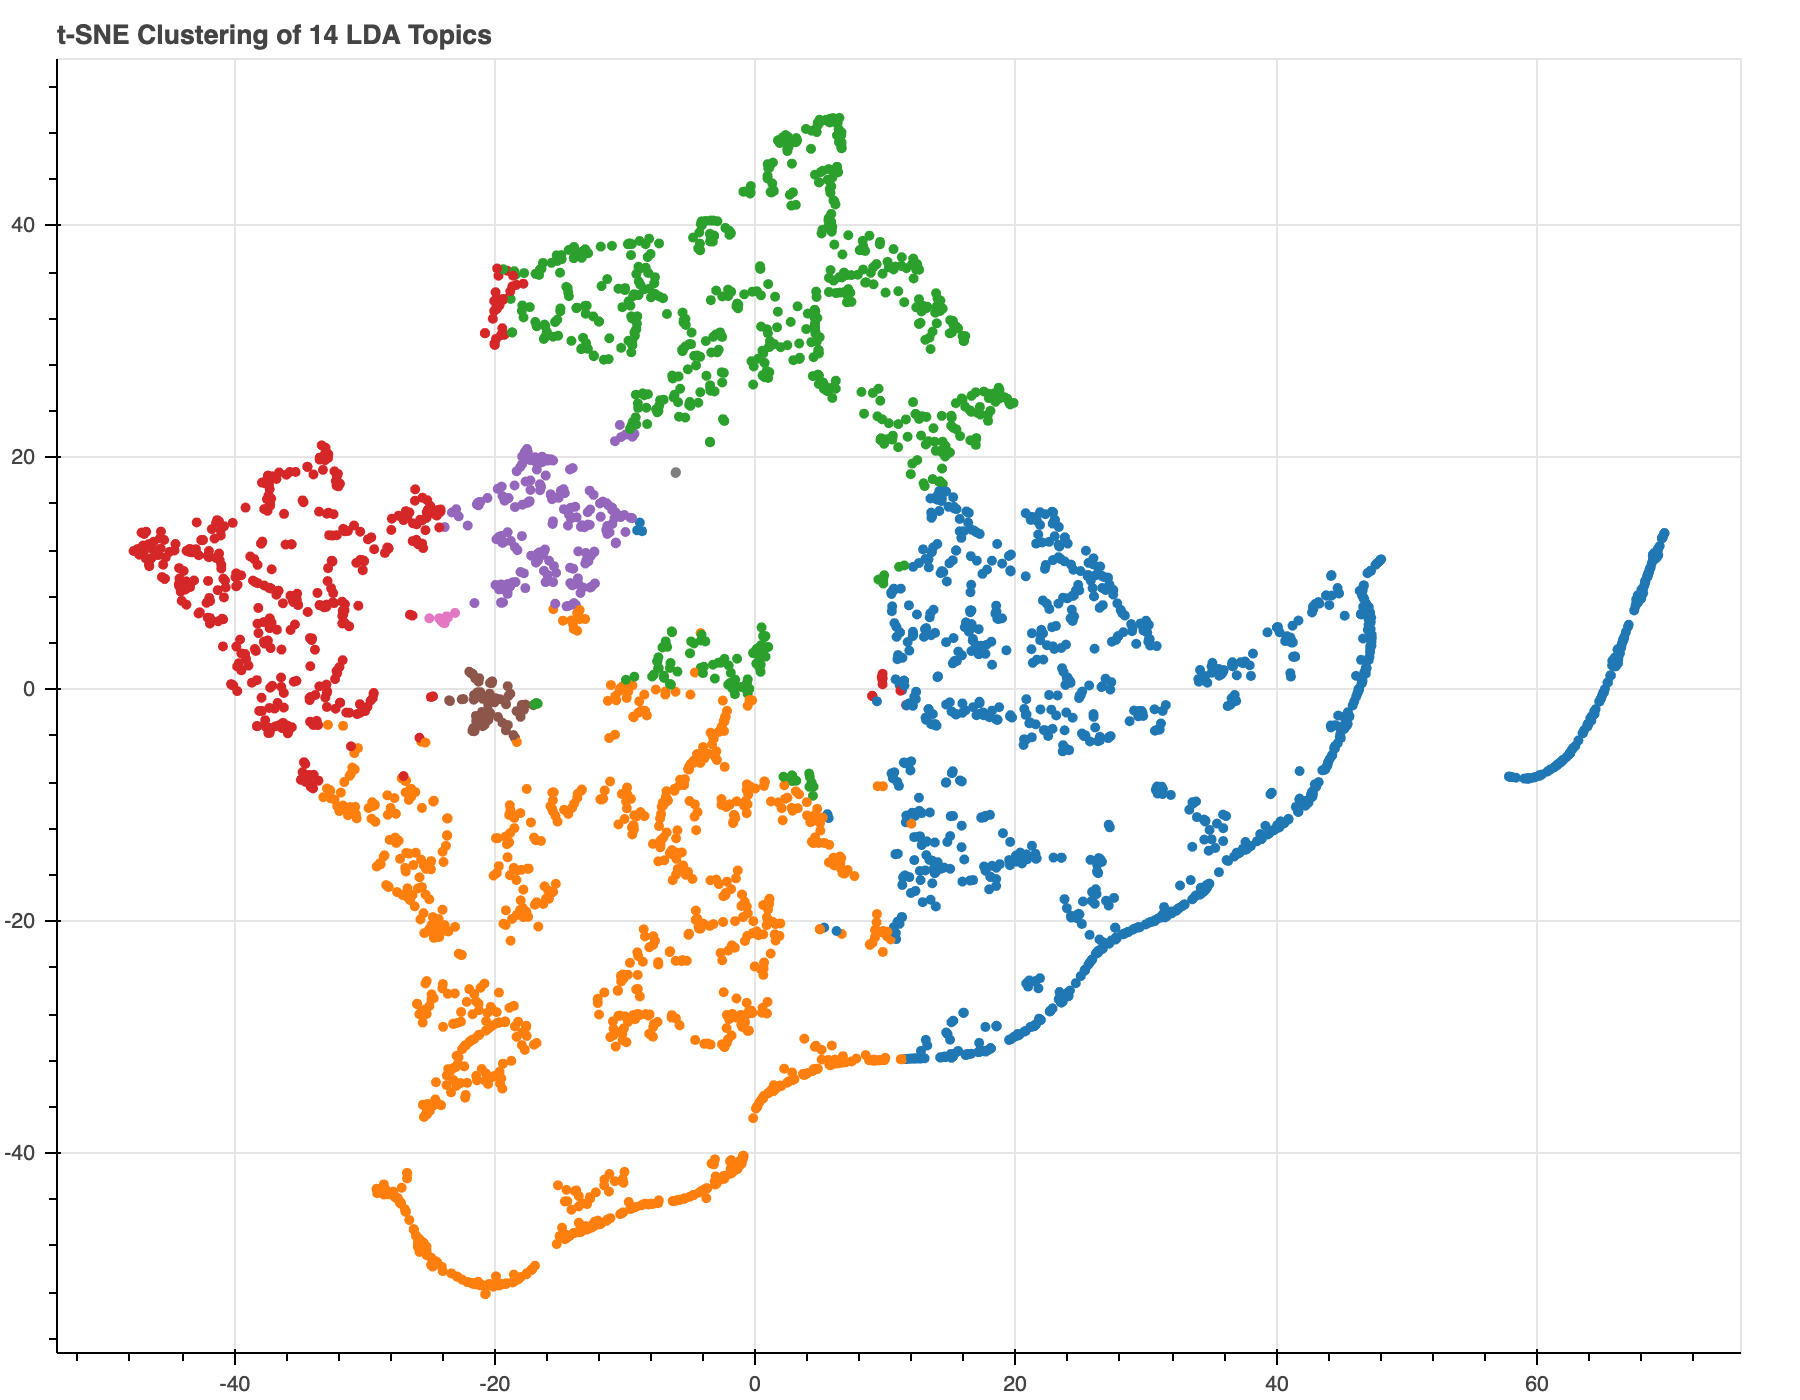
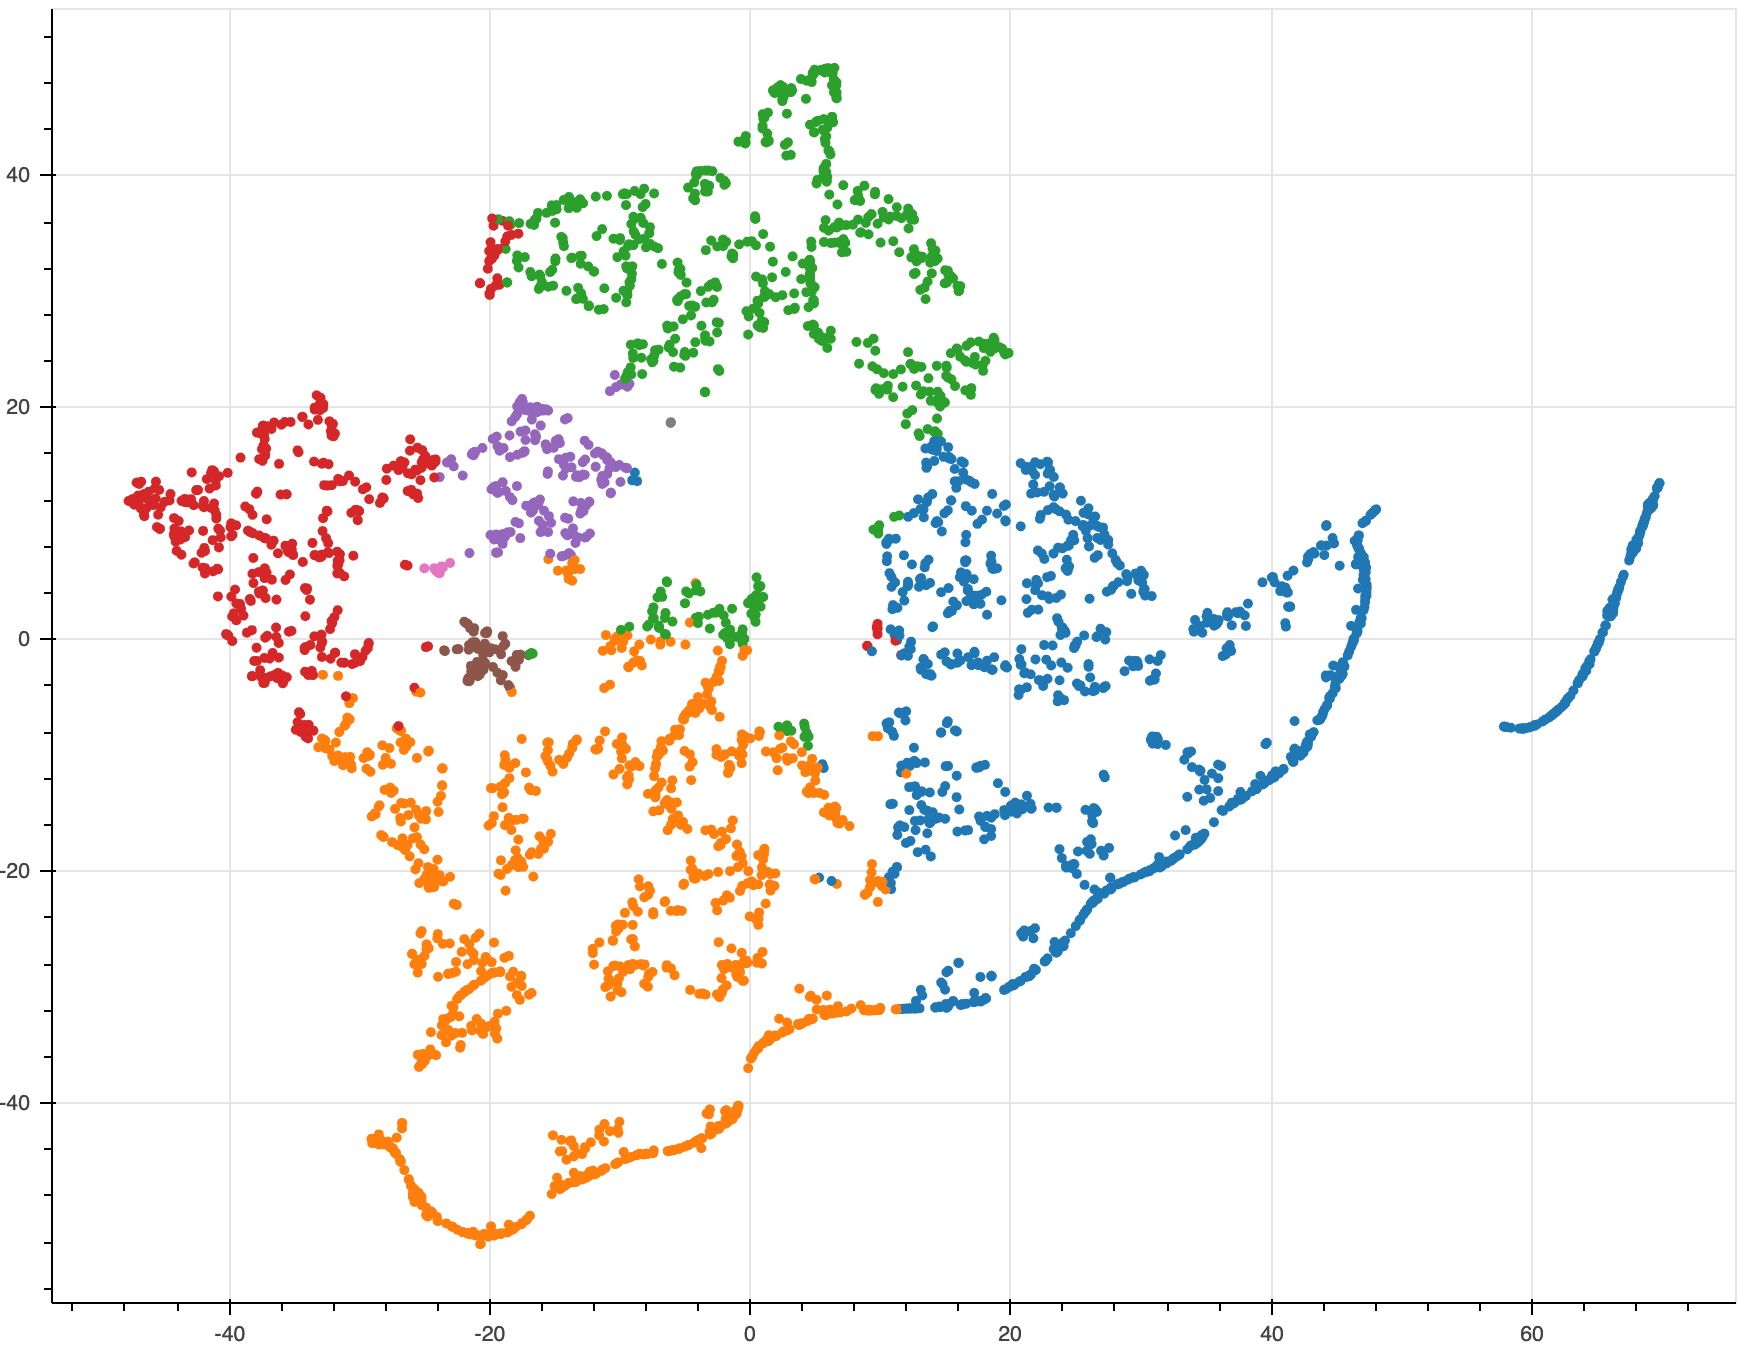
Updated hLDA, visualizations
figure and hierarchical network prototype; descriptions of planned work

diff --git a/README.md b/README.md
@@ -75,7 +75,11 @@ The LDA algorithm (Blei et al., 2003) is a generative probabilistic model. In ea
 
 **LDA Coherence:**
 
+The shape of the curve below suggests a relative maximum coherence score for our LDA model of 20 topics, with another at around 40 topics, after which coherence decreases (an unexpected result). Models with fewer than 10 topics have a low coherence score. 
+
 <img src="figures/LDA-coherence-V2.png" alt="LDA-coherence" width="500"/>
+
+The most coherent LDA model has 43 topics (as shown below). For purposes of summarization and comparison with NMF (in the following section), we report the findings from our 20 topic model.
 
 Number of Topics| Coherence Score (0 - 1) |
 |-------------:|------:|
@@ -85,7 +89,7 @@ Number of Topics| Coherence Score (0 - 1) |
 | 24 | 0.5330 |[lda-mallet-24.html](https://github.com/saralafia/Study-3-master/blob/master/pyLDAvis/lda-mallet-24.html)
 | **20** | **0.5014** |[lda-mallet-20.html](https://github.com/saralafia/Study-3-master/blob/master/pyLDAvis/lda-mallet-20.html)
 
-**LDA Results (20 Topic Model):**
+**LDA Results (20 Topic Model):** 
 
 The top 10 keywords from all 20 topics (unlabeled and unordered) are shown below. The topics can be compared with the NMF model of the same thematic granularity (presented in the next section).
 
@@ -112,12 +116,27 @@ Topic| Keywords |
 |18|	mechanism, level, cell, plant, response, growth, material, form, enhance, oil|
 |19|	fault, rate, basin, km, fold, central, deformation, tectonic, time, range|
 
+~ **LDA Interpretation (20 Topic Model):** A wordcloud summarizing the top 10 keywords from the 10 most significant topics is shown below. 
+
+<div style="text-align:center"><img src="figures/LDA-mallet-20-word-clouds.png" alt="project_funding" width="800"/></div>
+
+We produced interfaces for the most coherent LDA topic models using [pyLDAvis](https://nbviewer.jupyter.org/github/bmabey/pyLDAvis/blob/master/notebooks/pyLDAvis_overview.ipynb) at several levels of thematic granularity. The browser-based tool offers a interactive visualization of topics estimated with LDA. The distance between topics (Jensen-Shannon divergence) is computed and multidimensional scaling (principal components) projects the intertopic distances onto two dimensions. The size of topics and their distributions, as well as the saliency of terms within each topic and across the entire corpus, are visible. As a result, pyLDAvis supports interpretation of: 1) the meaning of each topic; 2) the prevalence of each topic; and 3) the relationship among topics (Sievert and Shirley, 2014). 
+
+The 
+[20 topic model](https://github.com/saralafia/Study-3-master/blob/master/pyLDAvis/lda-mallet-20.html): Multidimensional scaling -> "neighborhoods" of topics...
+
+<img src="figures/pyLDAvis-20-topics.png" alt="LDA-coherence" width="600"/>
+
 ### Non-negative Matrix Factorization (NMF)
 The NMF approach (Arora, 2013) relies on linear algebra and has been shown to produce higher quality topics for smaller or sparser datasets. We generated the NMF models using [Scikit-learn](https://medium.com/mlreview/topic-modeling-with-scikit-learn-e80d33668730) and used an initialization procedure called Nonnegative Double Singular Value Decomposition (nndsvd), which is best for sparse data. We fit [model parameters](https://github.com/derekgreene/topic-model-tutorial/) using tf-idf (term frequency–inverse document frequency) features. We tested the same range of topics (2 - 100) as we did previously with LDA to determine models yielding the highest coherence scores. 
 
 **NMF Coherence:**
 
+The shape of the curve below suggests a relative maximum coherence score for our LDA model of 40 topics, after which coherence continues to increase. Models with fewer than 10 topics have a low coherence score. On whole, NMF produced models with higher coherence scores than the LDA models. 
+
 <img src="figures/NMF-coherence.png" alt="LDA-coherence" width="500"/>
+
+The most coherent NMF model (as shown below) has the maximum number of topics in the iterations we performed (100 topics) suggesting that it might be possible to produce models with even finer thematic granularity and higher coherence scores. For purposes of summarization and comparison with LDA, we report the findings from our 20 topic model in the following section.
 
 | Topics| Coherence Score (0 - 1) |
 |-------------:|------:|
@@ -154,53 +173,65 @@ Topic| Keywords |
 |19|	kelp, giant, forest, biomass, forests, pyrifera, macrocystis, spatial, disturbance, california|
 |20|	project, restoration, campus, ucsb, slough, open, california, coastal, devereux, habitat|
 
+~ **NMF Interpretation (20 Topic Model):** 
+
+t-SNE (Maaten and Hinton, 2008)
+
+<div style="text-align:center"><img src="figures/LDA-gensim-14-topic-clusters-V1.png" alt="project_funding" width="800"/></div>
+
 ### Hierarchical LDA (hLDA)
 
 An extension of LDA for learning topic hierarchies is hLDA (Griffiths et al., 2004). This approach estimates the structure of a hierarchy and partitions documents nonparametrically. We use an hLDA implementation from [Tomotopy](https://bab2min.github.io/tomotopy). The following summarizes our findings at several hierarchical levels. 
 
-| Level | Topics| Perplexity Score |
+| Depth | Topics (per Level)| Perplexity Score |
 |----------|-------------:|------:|
-| 2|  272   |  3185.40 | 
-| 3|  424    | 3921.60 | 
-| 4|  560     | 3622.80 | 
+| 2|  265 (1, 264)   |  3185.40 | 
+| 3|  393 (1, 80, 312)    | 3921.60 | 
+| 4|  522 (1, 29, 83, 409)     | 3622.80 | 
 
-## Visualization
+**hLDA Results (3 Level Model):** 
 
-### pyLDAvis (LDA)
+We estimated a three level topic hierarchy from the corpus. An example from the hierarchy is shown below. Each node contains the top 10 keywords from selected corresponding topic distributions.
 
-A wordcloud summarizing the top 10 keywords from the 10 most significant topics is shown below. 
+<img src="figures/hLDA-3-level.png" alt="LDA-coherence" width="600"/>
 
-<div style="text-align:center"><img src="figures/LDA-mallet-20-word-clouds.png" alt="project_funding" width="800"/></div>
+**hLDA Results (4 Level Model):** 
 
-We deployed pyLDAvis interfaces for the most coherent models at several levels of thematic granularity. The [pyLDAvis](https://nbviewer.jupyter.org/github/bmabey/pyLDAvis/blob/master/notebooks/pyLDAvis_overview.ipynb) browser offers a web-based interactive visualization of topics estimated with LDA. It is intended to answer three questions: 1) What is the meaning of each topic?; 2) How prevalent is each topic?; and 3) How do the topics relate to each other? (Sievert and Shirley, 2014). The distance between topics (Jensen-Shannon divergence) is computed and multidimensional scaling (principal components) projects the intertopic distances onto two dimensions. The size of topics and their distributions, as well as the saliency of terms within each topic and across the entire corpus, are visible. 
+We also estimated a four level topic hierarchy from the corpus and show an example from it below as a comparison. Each node contains the top 10 keywords. Red keywords are shared in common with topics from the three-level model shown above. 
 
-The "loading" of principal components (PC1/PC2) are: ****
+<img src="figures/hLDA-4-level.png" alt="LDA-coherence" width="600"/>
 
-"Reading" the **20 topic model (LDA)**: 
+~ **hLDA Interpretation (3 Level Model):** 
 
-[lda-mallet-20.html](https://github.com/saralafia/Study-3-master/blob/master/pyLDAvis/lda-mallet-20.html)
+~ **hLDA Interpretation (4 Level Model):** 
 
-* Geomorphology (Topic 13)...
+hierarchical network (Newman, 2010)
 
-We also generated: 
+## ~Visualization
 
-1. the most representative documents for each topic; 
-2. the topic distribution across documents; 
-3. and the dominant topics for each document.
+The views of research documents that each topic modeling algorithm supports are:
 
-### t-SNE (NMF)
+- LDA (**topics** as *objects - neighborhoods*): sunburst, circos plot (GRAPHS)
+- hLDA (**topics, words** as *objects - network*): treemap, dendrogram, sankey (TREES)
+- NMF (**topics, documents** in a *field*): t-SNE, PCA (MAPS)
 
-(Maaten and Hinton, 2008)
+While there are many possible configurations resulting from this, our primary goal is to map each of ERI's PIs in a relative topic space. The binding between the *topic* and the *PI* is the topic composition of each research document (project or publication). Each research document (publication, project) is associated with a PI or a set of PIs. From our topic models, we generate: 
 
-### hierarchical network (hLDA)
+- the most representative **documents** for each **topic**; 
+- the distribution of **topics** across **documents**; 
+- and the dominant **words** for each **topic**.
 
-(Newman, 2010)
+**Dashboard prototype:** 
+
+- build interface with [Plotly Dash](https://plotly.com/python/) for surveying ERI PIs; 
+- show change over time (split corpus in half); 
+- explore relationship between hierarchy (GRAPHS/TREES) and neighborhood (MAPS)
 
 ## Evaluation
 
-* assign topics (and words?) to every PI
-* build an interface (DASH) for surveying ERI PIs
-* have ERI PIs evaluate their topc assignment(s)
+~ **Internal vignette:** ERI PIs evaluate their topic assignments...
+
+~ **External vignette:** Reviewers evaluate the topics of all research documents...
 
 ## References
 
